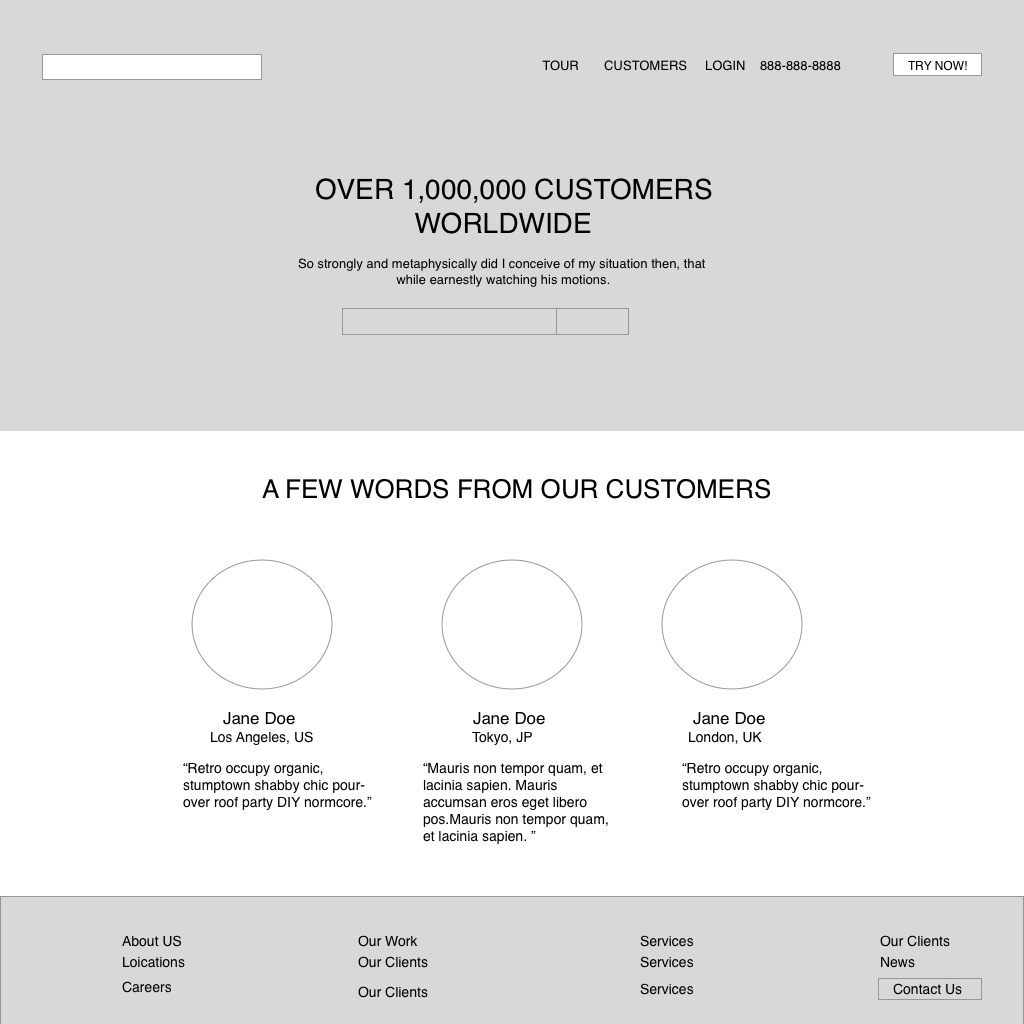
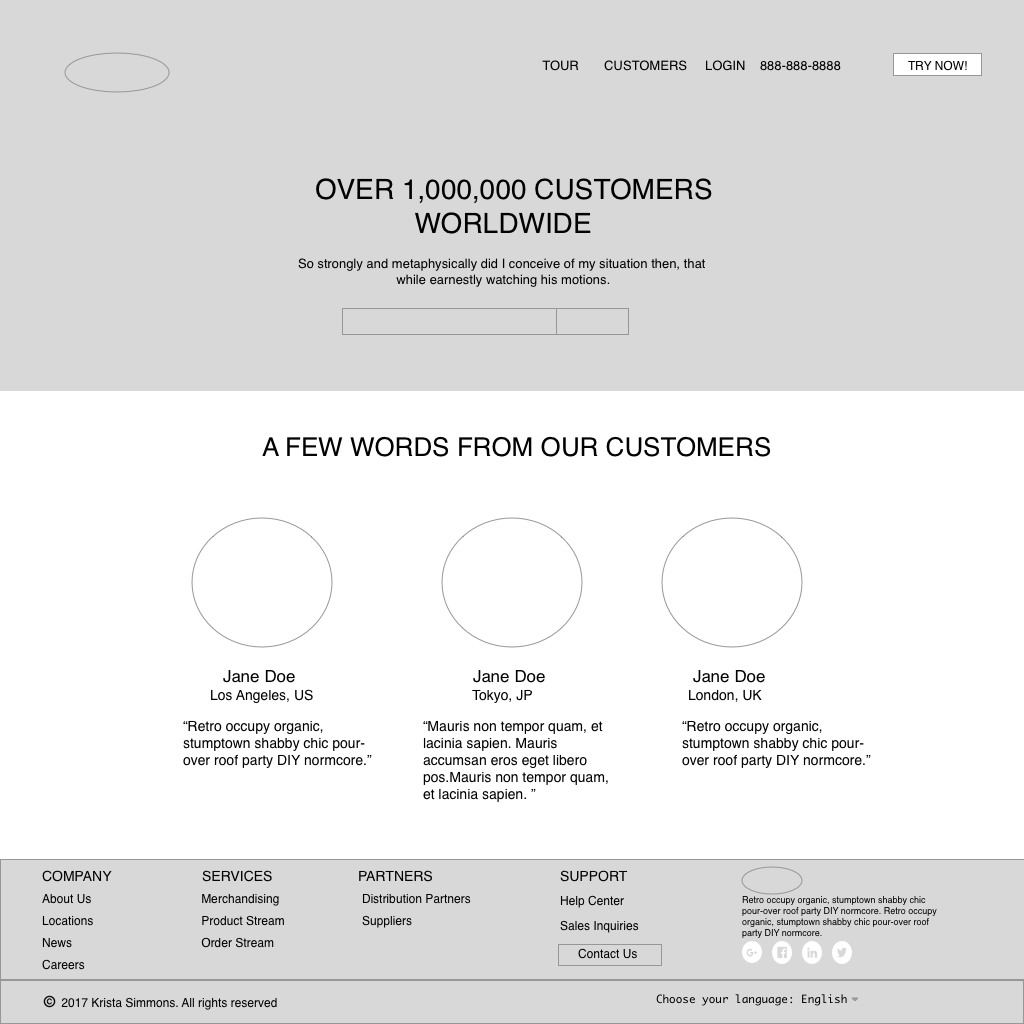
added testimonial prototype to front image of portfolio work

Changed region(s): [[0.0, 0.6562, 1.0, 1.0], [0.0, 0.375, 1.0, 0.5], [0.0312, 0.0312, 0.25, 0.0938]]

diff --git a/index.html b/index.html
@@ -401,7 +401,7 @@
 
 					<article class="project-item identity">
 
-						<img class="img-responsive project-image" src="assets/images/testimonialwireframe2.png"  alt=""><!--Project thumb -->
+						<img class="img-responsive project-image" src="assets/images/testimonialpage-prototype.png"  alt=""><!--Project thumb -->
 
 						<div class="hover-mask">
 							<h2 class="project-title">Testimonial Page </h2><!--Project Title -->
@@ -410,7 +410,7 @@
 
 						<!--==== Project Preview HTML ====-->
 
-						<div class="sr-only project-description" data-images="assets/images/testimonialwireframe1.png,assets/images/slide.png" >
+						<div class="sr-only project-description" data-images="assets/images/testimonialwireframe1.png,assets/images/testimonialpage-prototype.png" >
 
 							<p>This is not a real company, I completely made it up! This is just to demonstrate the process I undertook to understand the needs of a cloud based company and how it’s testimonial page will get more users to sign up for their trial/product. Before I jumped right into the design, I had to conduct some "research" on my client and their users: </p>
 						<p>- what sort of client am I working with? who is their audience? competitors? what is their end goal? how can I increase the likelihood of site visitors to sign up for a free trial?</p>
